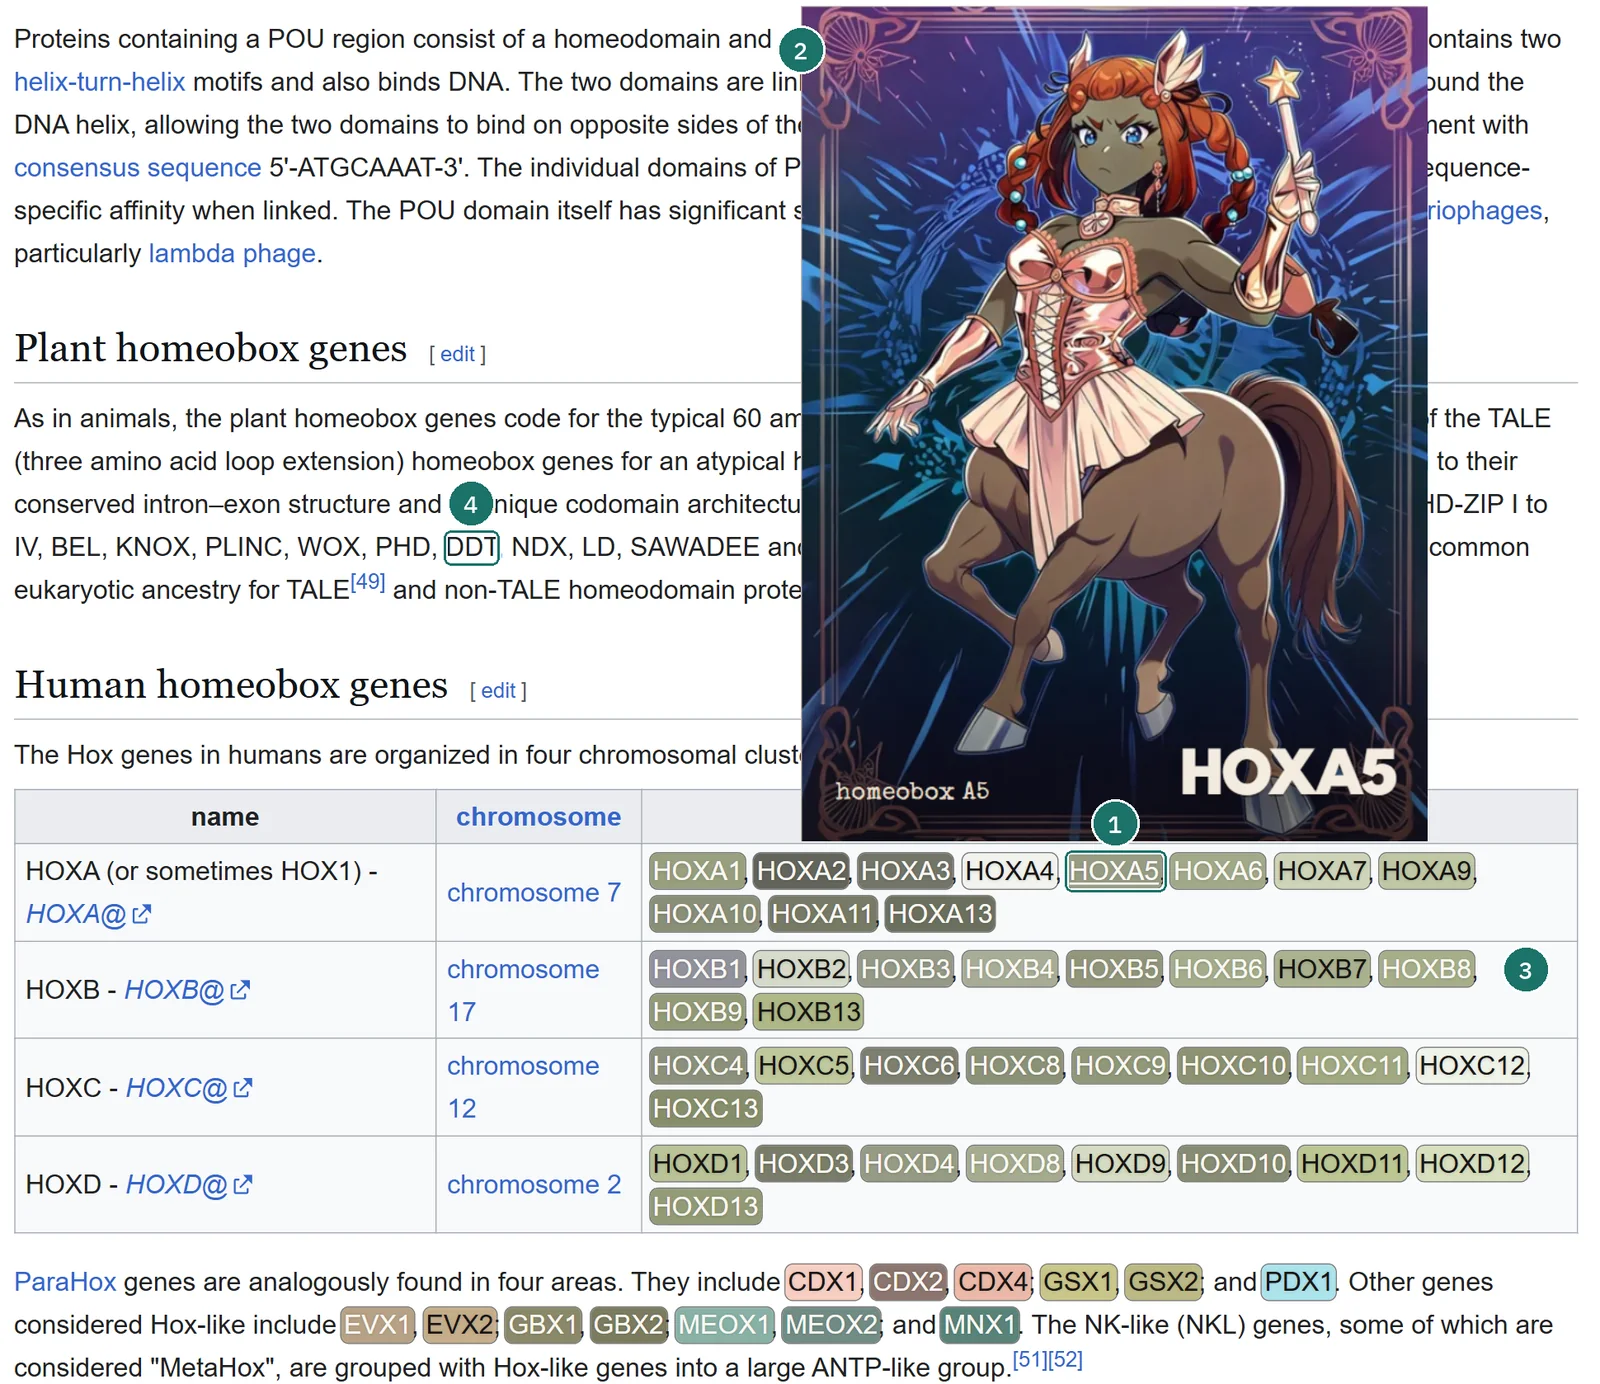
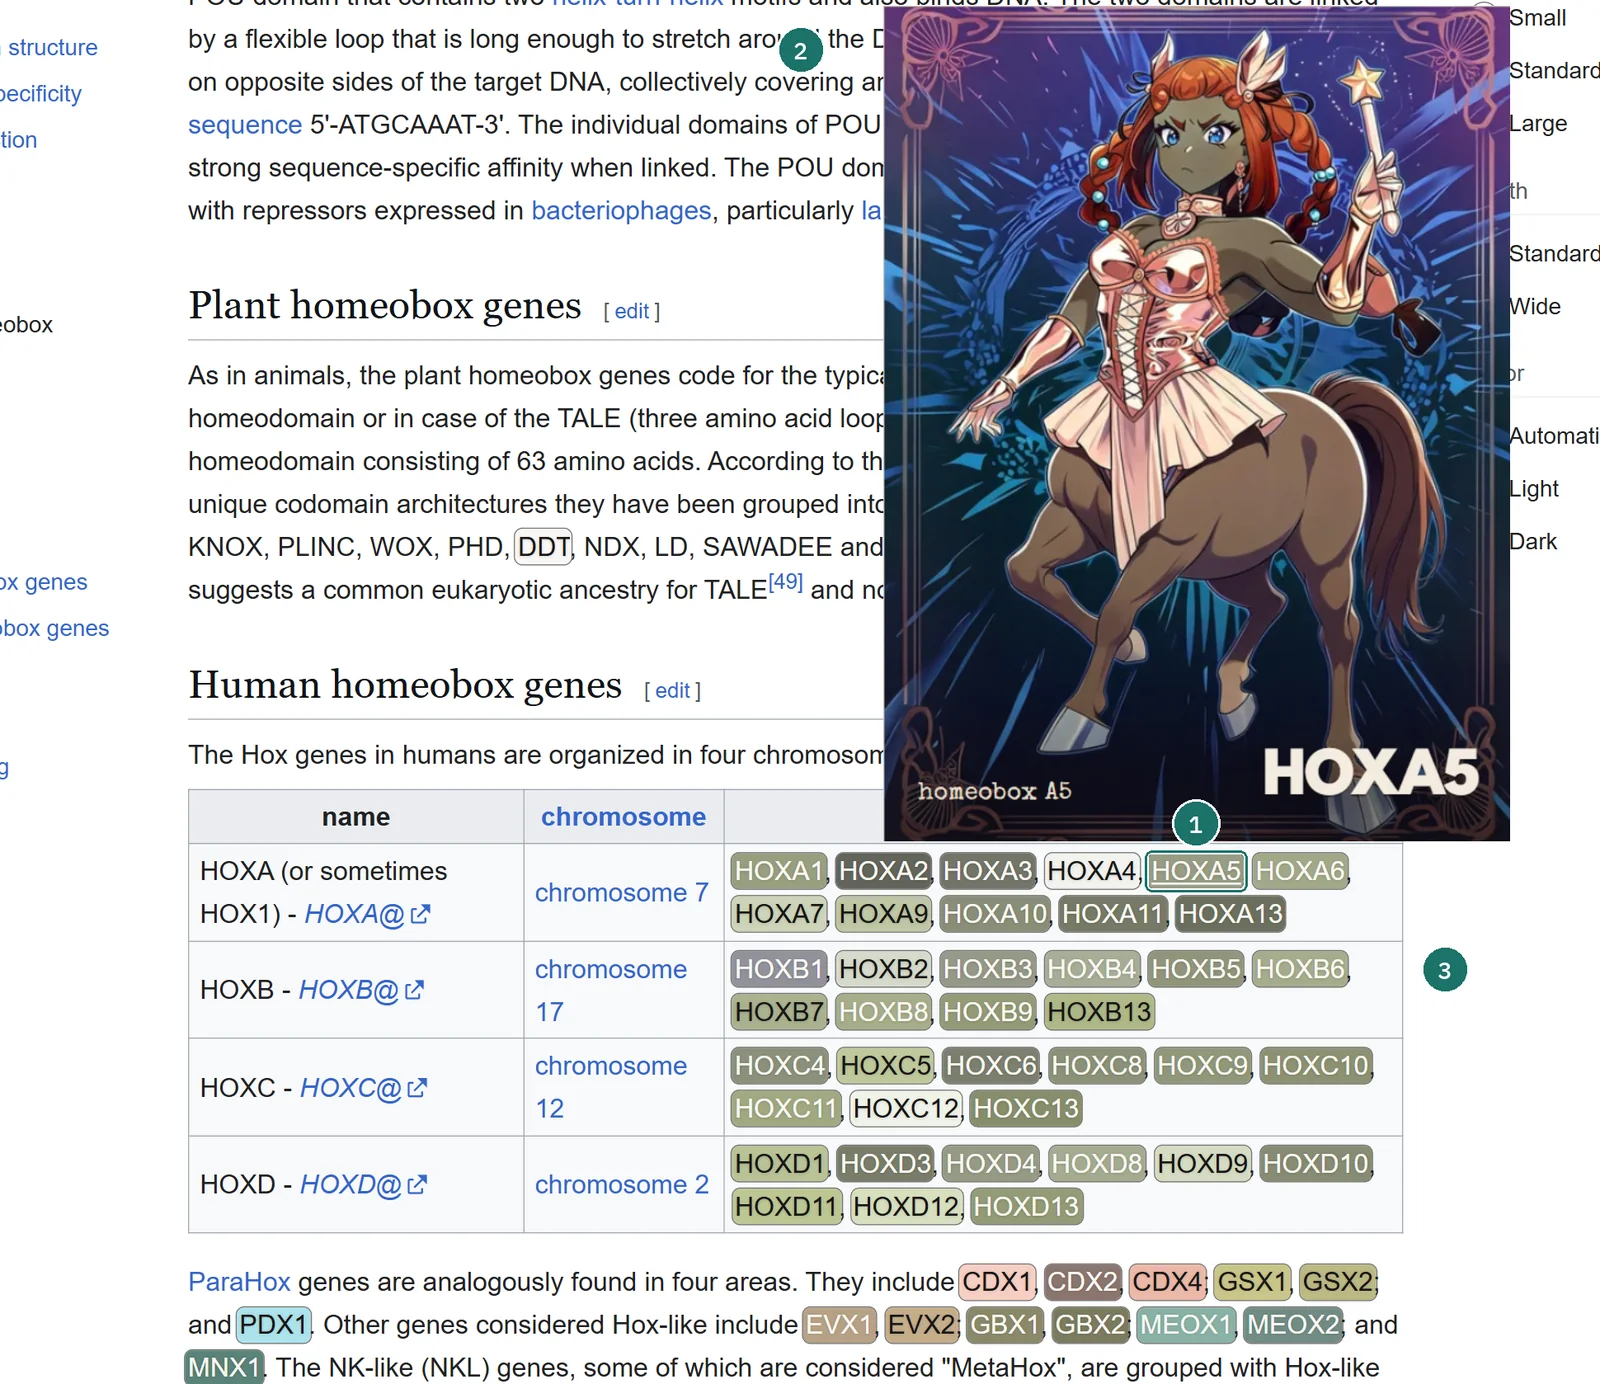
B-1168, B-1170: two Archive columns on laptops, one-line emulsion numbers; tour drops DDT (#742)
- Archive: tiles shrink to 320px, so a 1280px window shows two columns
  instead of one; the grid never holds more than two 384px tiles, because
  the feed renders in segments of 4 and 12 and a third column would leave a
  ragged row at every seam. Wide screens look exactly as before.
- Accession sheet: the emulsion number no longer breaks inside the code
  ("0-18482-" / "e"); the phone card tracks it at -0.02em so nine
  characters fit a 360px screen.
- Getting started: no DDT. The Wikipedia picture is retaken with default
  settings, the blocklist step becomes one sentence, and the false line
  about PDF hovers is gone (they do record discoveries).

diff --git a/quartz/static/iconoplasm/styles.css b/quartz/static/iconoplasm/styles.css
@@ -597,15 +597,18 @@ body[data-slug^="apps/iconoplasm"] #iconoplasm-root {
   box-sizing: border-box;
 }
 
-.icono-grid[data-layout="image-only-masonry"] {
+/* B-1168: tiles shrink to 320px so a 1280px laptop gets two columns, and the
+   grid never holds more than two full tiles. The feed renders in segments of 4,
+   then 12 (8 on phones), each its own grid, so a third column would leave a
+   ragged row at every segment seam. */
+.icono-grid[data-layout="image-only-masonry"],
+.icono-guest-continuation-grid {
   display: grid;
-  grid-template-columns: repeat(
-    auto-fit,
-    minmax(min(100%, var(--icono-image-tile-width)), var(--icono-image-tile-width))
-  );
+  grid-template-columns: repeat(auto-fill, minmax(min(100%, 320px), 1fr));
   gap: var(--icono-image-tile-gutter);
-  justify-content: center;
+  justify-items: center;
   align-items: start;
+  max-width: calc(2 * var(--icono-image-tile-width) + var(--icono-image-tile-gutter));
   margin-inline: auto;
 }
 
@@ -4170,16 +4173,6 @@ body[data-slug^="apps/iconoplasm"] .brd-sidebar-row-value,
 .icono-post-feed-stage--guest-preview > .icono-guest-continuation {
   position: absolute;
   inset: 0;
-}
-
-.icono-guest-continuation-grid {
-  display: grid;
-  grid-template-columns: repeat(
-    auto-fit,
-    minmax(min(100%, var(--icono-image-tile-width)), var(--icono-image-tile-width))
-  );
-  gap: var(--icono-image-tile-gutter);
-  justify-content: center;
 }
 
 .icono-card--guest-reverse {

diff --git a/shared/iconoplasm-card/shared-card-label.css b/shared/iconoplasm-card/shared-card-label.css
@@ -893,6 +893,9 @@
   font-family: "Special Elite";
   font-size: calc(24 / 1220 * 100cqw);
   line-height: 0.95;
+  /* B-1170: an emulsion number is one code; "0-18482-e" broke after its last
+     hyphen. Nine characters, the longest in real use, fit the cell. */
+  white-space: nowrap;
 }
 
 .icono-label-family {
@@ -1729,6 +1732,12 @@
     .icono-label-dossier-shell
     .icono-label-typed-value--unit-kda {
     letter-spacing: 0.01em;
+  }
+
+  /* B-1170: the phone card's 0.03em tracking pushed a nine-character emulsion
+     number 3px past its cell; typewriter spacing stays legible at -0.02em. */
+  .icono-card--variant-lab-label.icono-card--brick .icono-label-dossier-shell .icono-label-serial {
+    letter-spacing: -0.02em;
   }
 
   .icono-card--variant-lab-label.icono-card--brick

diff --git a/content/apps/iconoplasm/docs/getting-started.md b/content/apps/iconoplasm/docs/getting-started.md
@@ -12,7 +12,7 @@ draft: false
 
 Iconoplasm is a browser extension that highlights all the gene names on any web page. When you hover your cursor over any human gene, it shows that gene as a character card.
 
-Steps 1 to 4 happen in your browser, on pages that you already read. Steps 5 to 7 happen on the Iconoplasm website. The numbers in each picture match the numbered list under it.
+Steps 1 to 3 happen in your browser, on pages that you already read. Steps 4 to 6 happen on the Iconoplasm website. The numbers in each picture match the numbered list under it.
 
 ## 1. Install the extension
 
@@ -32,7 +32,6 @@ Open any page that names human genes. Here it's the table of human Hox clusters 
 1. Every human gene symbol gets a color pill. Rest your cursor on one, here **HOXA5**.
 2. The gene's character card opens. HOXA5 is a centaur in a magical girl's dress, and her skin is the color of her pill.
 3. Gene symbols that start with the same letter share a hue, so the whole Hox array is olive. The pills differ only in how light and how vivid they are.
-4. **DDT** has no pill. On this page DDT is a class of plant homeobox genes, not the human gene DDT, so this reader has put it on the blocklist (step 4).
 
 A pill's color comes from three numbers about the gene:
 
@@ -48,6 +47,8 @@ So, looking at a gene symbol pill in your browser, you will be able to deduce:
 - gray pill? ubiquitous gene, medium importance.
 
 The essay [[posts/Mnemonic-portraits-for-19023-human-genes|Mnemonic portraits for 19,023 human genes]] explains why each number got its job.
+
+To stop the extension from highlighting a word, click its icon in your browser's toolbar and add the word on the **Blocklist** tab.
 
 ## 3. Turn on PDF highlighting
 
@@ -69,17 +70,7 @@ Now open a paper. This one is Sanchez-Vega et al., [Oncogenic Signaling Pathways
 4. NF1's card opens. Her card gives her 319 kg, because the protein weighs 319 kDa. Her skin is a very dark green, because the gene tolerates few mutations. The figure marks NF1 blue, as a tumor suppressor, and her gene card marks her *pro-control* for the same reason.
 5. To read this PDF without highlights, click **Use browser PDF viewer** in the top-right corner.
 
-## 4. Hide a word that isn't a gene
-
-Some gene symbols are also everyday words or abbreviations. The extension ignores 112 of them by default, and you can add more.
-
-![[iconoplasm-start-blocklist.webp|The Blocklist tab in the extension's settings|362]]
-
-1. Open the **Blocklist** tab.
-2. Type the symbol, here **DDT**. On the Homeobox page DDT names plant genes, while the human gene with that symbol is D-dopachrome tautomerase.
-3. Click **Add**. From now on, the extension leaves that word alone on every page.
-
-## 5. Collect cards in the Archive
+## 4. Collect cards in the Archive
 
 The front page of [iconoplasm.brinedew.bio](https://iconoplasm.brinedew.bio) is the Archive. It's basically a Pokedex system: the genes that you have hovered over get added into your archive gallery.
 
@@ -89,9 +80,9 @@ The front page of [iconoplasm.brinedew.bio](https://iconoplasm.brinedew.bio) is 
 2. To see discoveries of others, tick **Show discoveries made by others**.
 3. You get four starter genes that you probably already know: INS, RHO, PRL and CD4. Click a card to open its gene page.
 
-To build your own collection, click **Discord Login** in the top-right corner. From then on, each gene that you rest your cursor on for about a second, on any web page, joins your Archive. The genes that you hovered before you logged in join it too. Hovers inside the PDF reader don't count yet.
+To build your own collection, click **Discord Login** in the top-right corner. From then on, each gene that you rest your cursor on for about a second, on any web page or PDF, joins your Archive. The genes that you hovered before you logged in join it too.
 
-## 6. Open a gene page
+## 5. Open a gene page
 
 Clicking on a gene image transfers you to the gene's page. There you will find the gene card, as well as an interface for image generation, editing, transfer and voting.
 
@@ -103,7 +94,7 @@ Clicking on a gene image transfers you to the gene's page. There you will find t
 4. **MISFIT** and **FIT** are your vote on this portrait: **Reject portrait** or **Approve portrait**. The current portrait is the one with the highest approval score.
 5. Under the card, **Overview** shows comments and the other candidate portraits for this gene. **Comments** and **Candidates** show one of the two.
 
-## 7. Read the gene card
+## 6. Read the gene card
 
 The gene card is an accession sheet. Each handwritten note on it is a fact about the gene, written as a feature of the character. A portrait that fits its card shows all of them.
 
